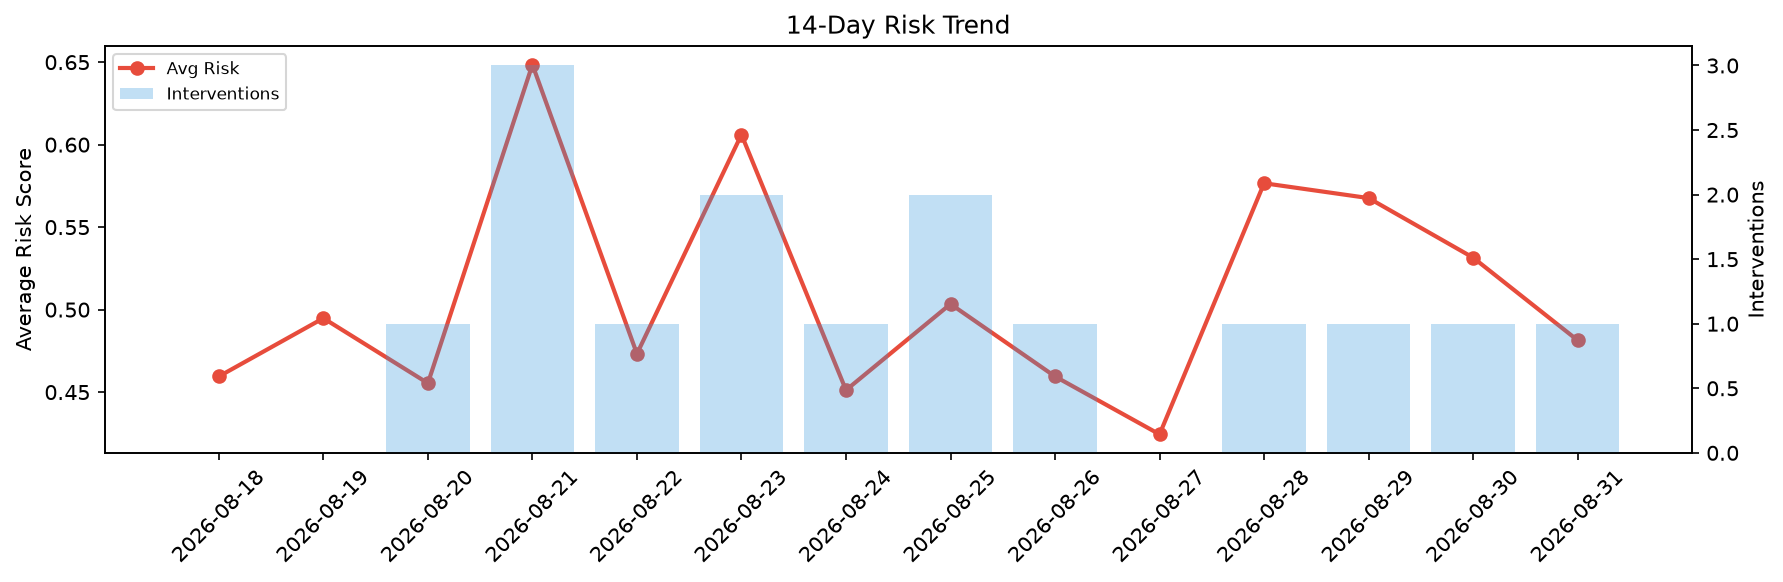
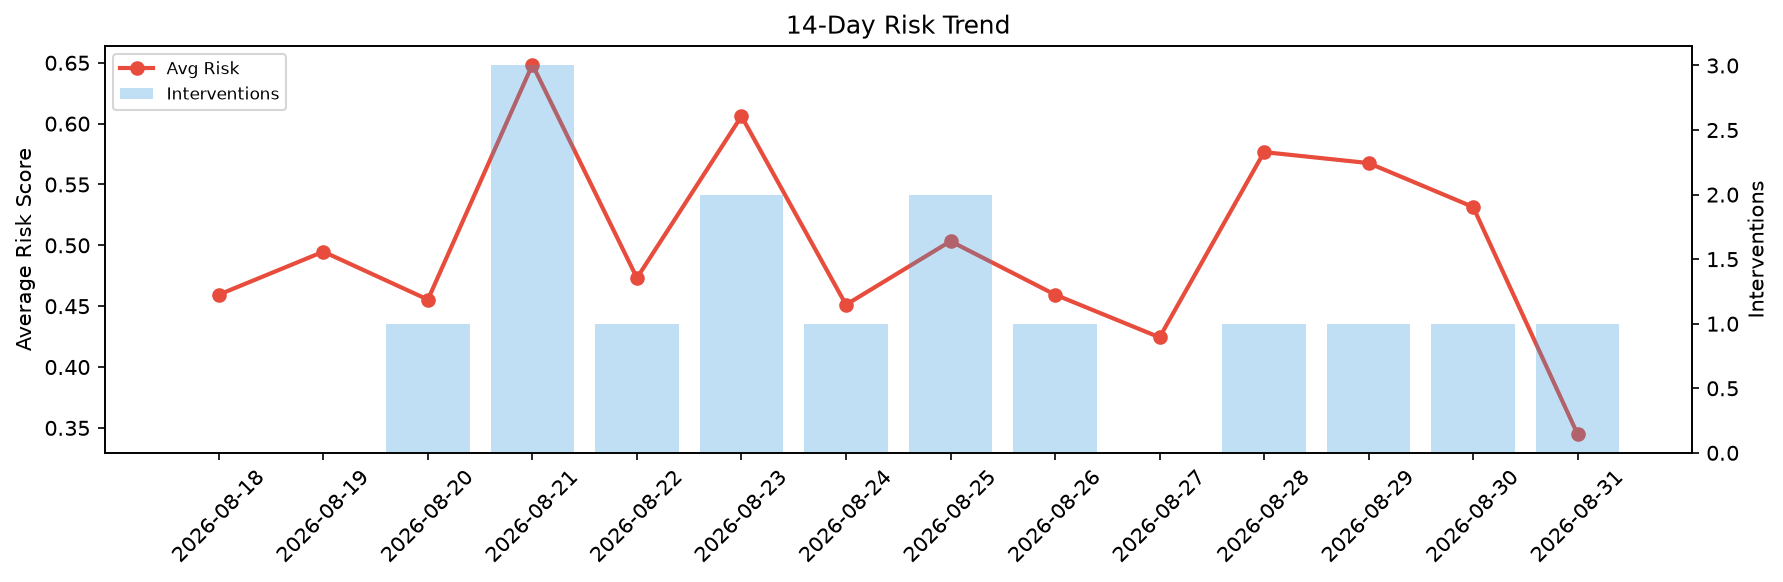
agent-improvement: daily cycle 2026-08-31T20:06

diff --git a/logs/2026-08-31.md b/logs/2026-08-31.md
@@ -1,6 +1,6 @@
 # Agent Improvement Report — 2026-08-31
 
-**Cycle ID:** `5236c383` | **Avg Risk:** 0.4814 | **Interventions:** 1/4
+**Cycle ID:** `0c4714f0` | **Avg Risk:** 0.3447 | **Interventions:** 1/4
 
 ![Dashboard](2026-08-31_dashboard.png)
 
@@ -10,18 +10,18 @@
 
 | Domain | Risk Score | Decision | Alerts |
 |--------|-----------|----------|--------|
-| code_review | 0.2745 | monitor | none |
-| incident_response | 0.4555 | monitor | severity |
-| data_pipeline | 0.5729 | monitor | freshness |
-| deployment | 0.6225 | intervene | canary_error |
+| code_review | 0.6134 | intervene | none |
+| incident_response | 0.0859 | monitor | none |
+| data_pipeline | 0.3253 | monitor | none |
+| deployment | 0.3543 | monitor | none |
 
 ## Delta vs Yesterday
 
 | Domain | Today | Yesterday | Change |
 |--------|-------|-----------|--------|
-| code_review | 0.2745 | 0.7678 | 📉 -64.2% |
-| incident_response | 0.4555 | 0.5829 | 📉 -21.9% |
-| data_pipeline | 0.5729 | 0.3683 | 📈 55.6% |
-| deployment | 0.6225 | 0.4072 | 📈 52.9% |
+| code_review | 0.6134 | 0.7678 | 📉 -20.1% |
+| incident_response | 0.0859 | 0.5829 | 📉 -85.3% |
+| data_pipeline | 0.3253 | 0.3683 | 📉 -11.7% |
+| deployment | 0.3543 | 0.4072 | 📉 -13.0% |
 
-**Refinement:** `{'adjustment': 'tighten_thresholds', 'trend': 'degrading', 'window': 4}`
+**Refinement:** `{'adjustment': 'maintain', 'trend': 'improving', 'window': 4}`
